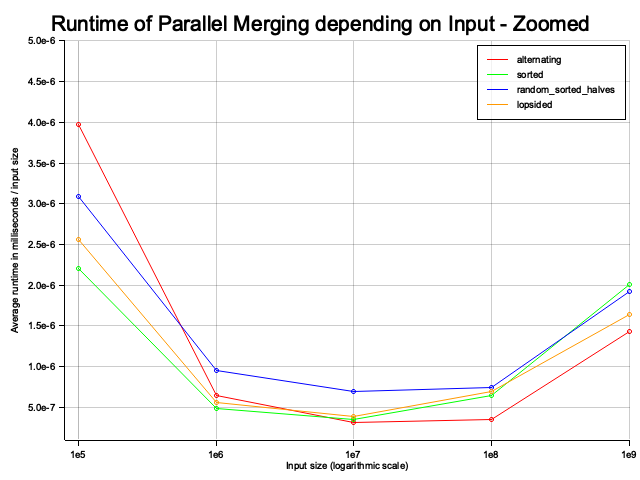
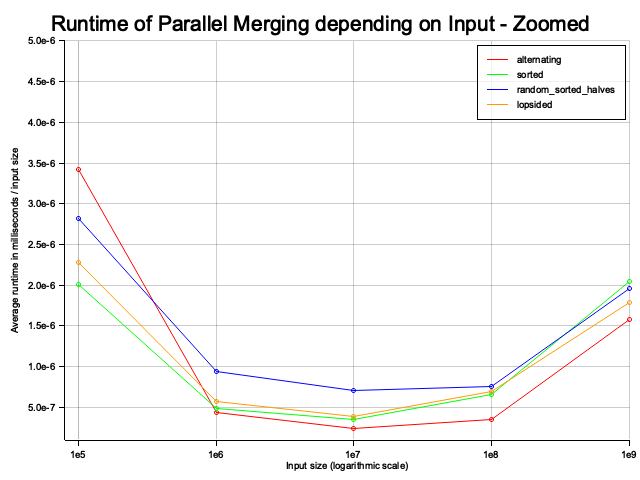
update plots

diff --git a/src/plotting.rs b/src/plotting.rs
@@ -10,7 +10,7 @@ use plotters::prelude::*;
 use plotters::style::full_palette::ORANGE;
 use std::time::Instant;
 
-const TOTAL_EVALUATIONS: i32 = 8;
+const TOTAL_EVALUATIONS: i32 = 10;
 
 pub fn create_data(input_sizes: Vec<usize>, threads: Vec<usize>) -> Vec<Vec<(usize, f64)>> {
     let mut data: Vec<Vec<(usize, f64)>> = Vec::with_capacity(threads.len());
@@ -70,7 +70,7 @@ pub fn create_data_for_functions(
                             let mut output = vec![0; *n];
                             let now = Instant::now();
                             // switch to parallel_merge if that should be evaluated
-                            parallel_merge(&left, &right, &mut output, 8);
+                            sequential_merge(&left, &right, &mut output);
                             now.elapsed().as_secs_f64()
                         })
                         .sum();
@@ -86,7 +86,7 @@ pub fn create_data_for_functions(
 
 pub fn plot_runtime_depending_on_threads() -> Result<(), Box<dyn std::error::Error>> {
     // corresponds to x axis
-    let input_sizes: Vec<usize> = (3..=7).map(|exp| 10usize.pow(exp)).collect();
+    let input_sizes: Vec<usize> = (4..=8).map(|exp| 10usize.pow(exp)).collect();
 
     // each thread and colour is a new line in the graph
     let threads: Vec<usize> = vec![1, 2, 4, 8, 16];
@@ -96,19 +96,19 @@ pub fn plot_runtime_depending_on_threads() -> Result<(), Box<dyn std::error::Err
     let data = create_data(input_sizes.clone(), threads.clone());
 
     // plot
-    let root = BitMapBackend::new("runtime_plot_parallel_sort_parallel_merge.png", (640, 480))
+    let root = BitMapBackend::new("runtime_plot_parallel_sort_sequential_merge_zoomed.png", (640, 480))
         .into_drawing_area();
     let _ = root.fill(&WHITE);
     let root = root.margin(10, 10, 10, 10);
 
     let mut chart = ChartBuilder::on(&root)
         .caption(
-            "Runtime of Parallel Sorting using Parallel Merging",
-            ("times-new-roman", 30).into_font(),
+            "Runtime of Parallel Sorting using Sequential Merging - Zoomed",
+            ("times-new-roman", 26).into_font(),
         )
         .x_label_area_size(30)
         .y_label_area_size(55)
-        .build_cartesian_2d((800..10000000).log_scale(), 2e-5..4e-4)?;
+        .build_cartesian_2d((8000..100000000).log_scale(), 1e-6..3e-5)?;
 
     chart
         .configure_mesh()
@@ -144,7 +144,7 @@ pub fn plot_runtime_depending_on_threads() -> Result<(), Box<dyn std::error::Err
 
 pub fn plot_runtime_depending_on_input_generation() -> Result<(), Box<dyn std::error::Error>> {
     // corresponds to x axis
-    let input_sizes: Vec<usize> = (5..=9).map(|exp| 10usize.pow(exp)).collect();
+    let input_sizes: Vec<usize> = (3..=9).map(|exp| 10usize.pow(exp)).collect();
 
     // each type of input generation will correspond to a line in the graph
     let input_generation_function: Vec<MergeFunction> = vec![
@@ -161,18 +161,18 @@ pub fn plot_runtime_depending_on_input_generation() -> Result<(), Box<dyn std::e
 
     // plot
     let root =
-        BitMapBackend::new("runtime_plot_parallel_merge_zoomed.png", (640, 480)).into_drawing_area();
+        BitMapBackend::new("runtime_plot_sequential_merge.png", (640, 480)).into_drawing_area();
     let _ = root.fill(&WHITE);
     let root = root.margin(10, 10, 10, 10);
 
     let mut chart = ChartBuilder::on(&root)
         .caption(
-            "Runtime of Parallel Merging depending on Input - Zoomed",
-            ("times-new-roman", 26).into_font(),
+            "Runtime of Sequential Merging depending on Input",
+            ("times-new-roman", 30).into_font(),
         )
         .x_label_area_size(30)
         .y_label_area_size(55)
-        .build_cartesian_2d((80000..1000000000).log_scale(), 1e-7..5e-6)?;
+        .build_cartesian_2d((800..1000000000).log_scale(), 1e-7..5e-6)?;
 
     chart
         .configure_mesh()

diff --git a/src/main.rs b/src/main.rs
@@ -16,7 +16,7 @@ use std::time::Instant;
 pub const NUM_PROCESSORS_TEST: usize = 8;
 
 fn main() {
-    //let _ = plot_runtime_depending_on_threads();
+    let _ = plot_runtime_depending_on_threads();
     let _ = plot_runtime_depending_on_input_generation();
 
     // this can be used to run the merge sort on individual input sizes and thread counts
